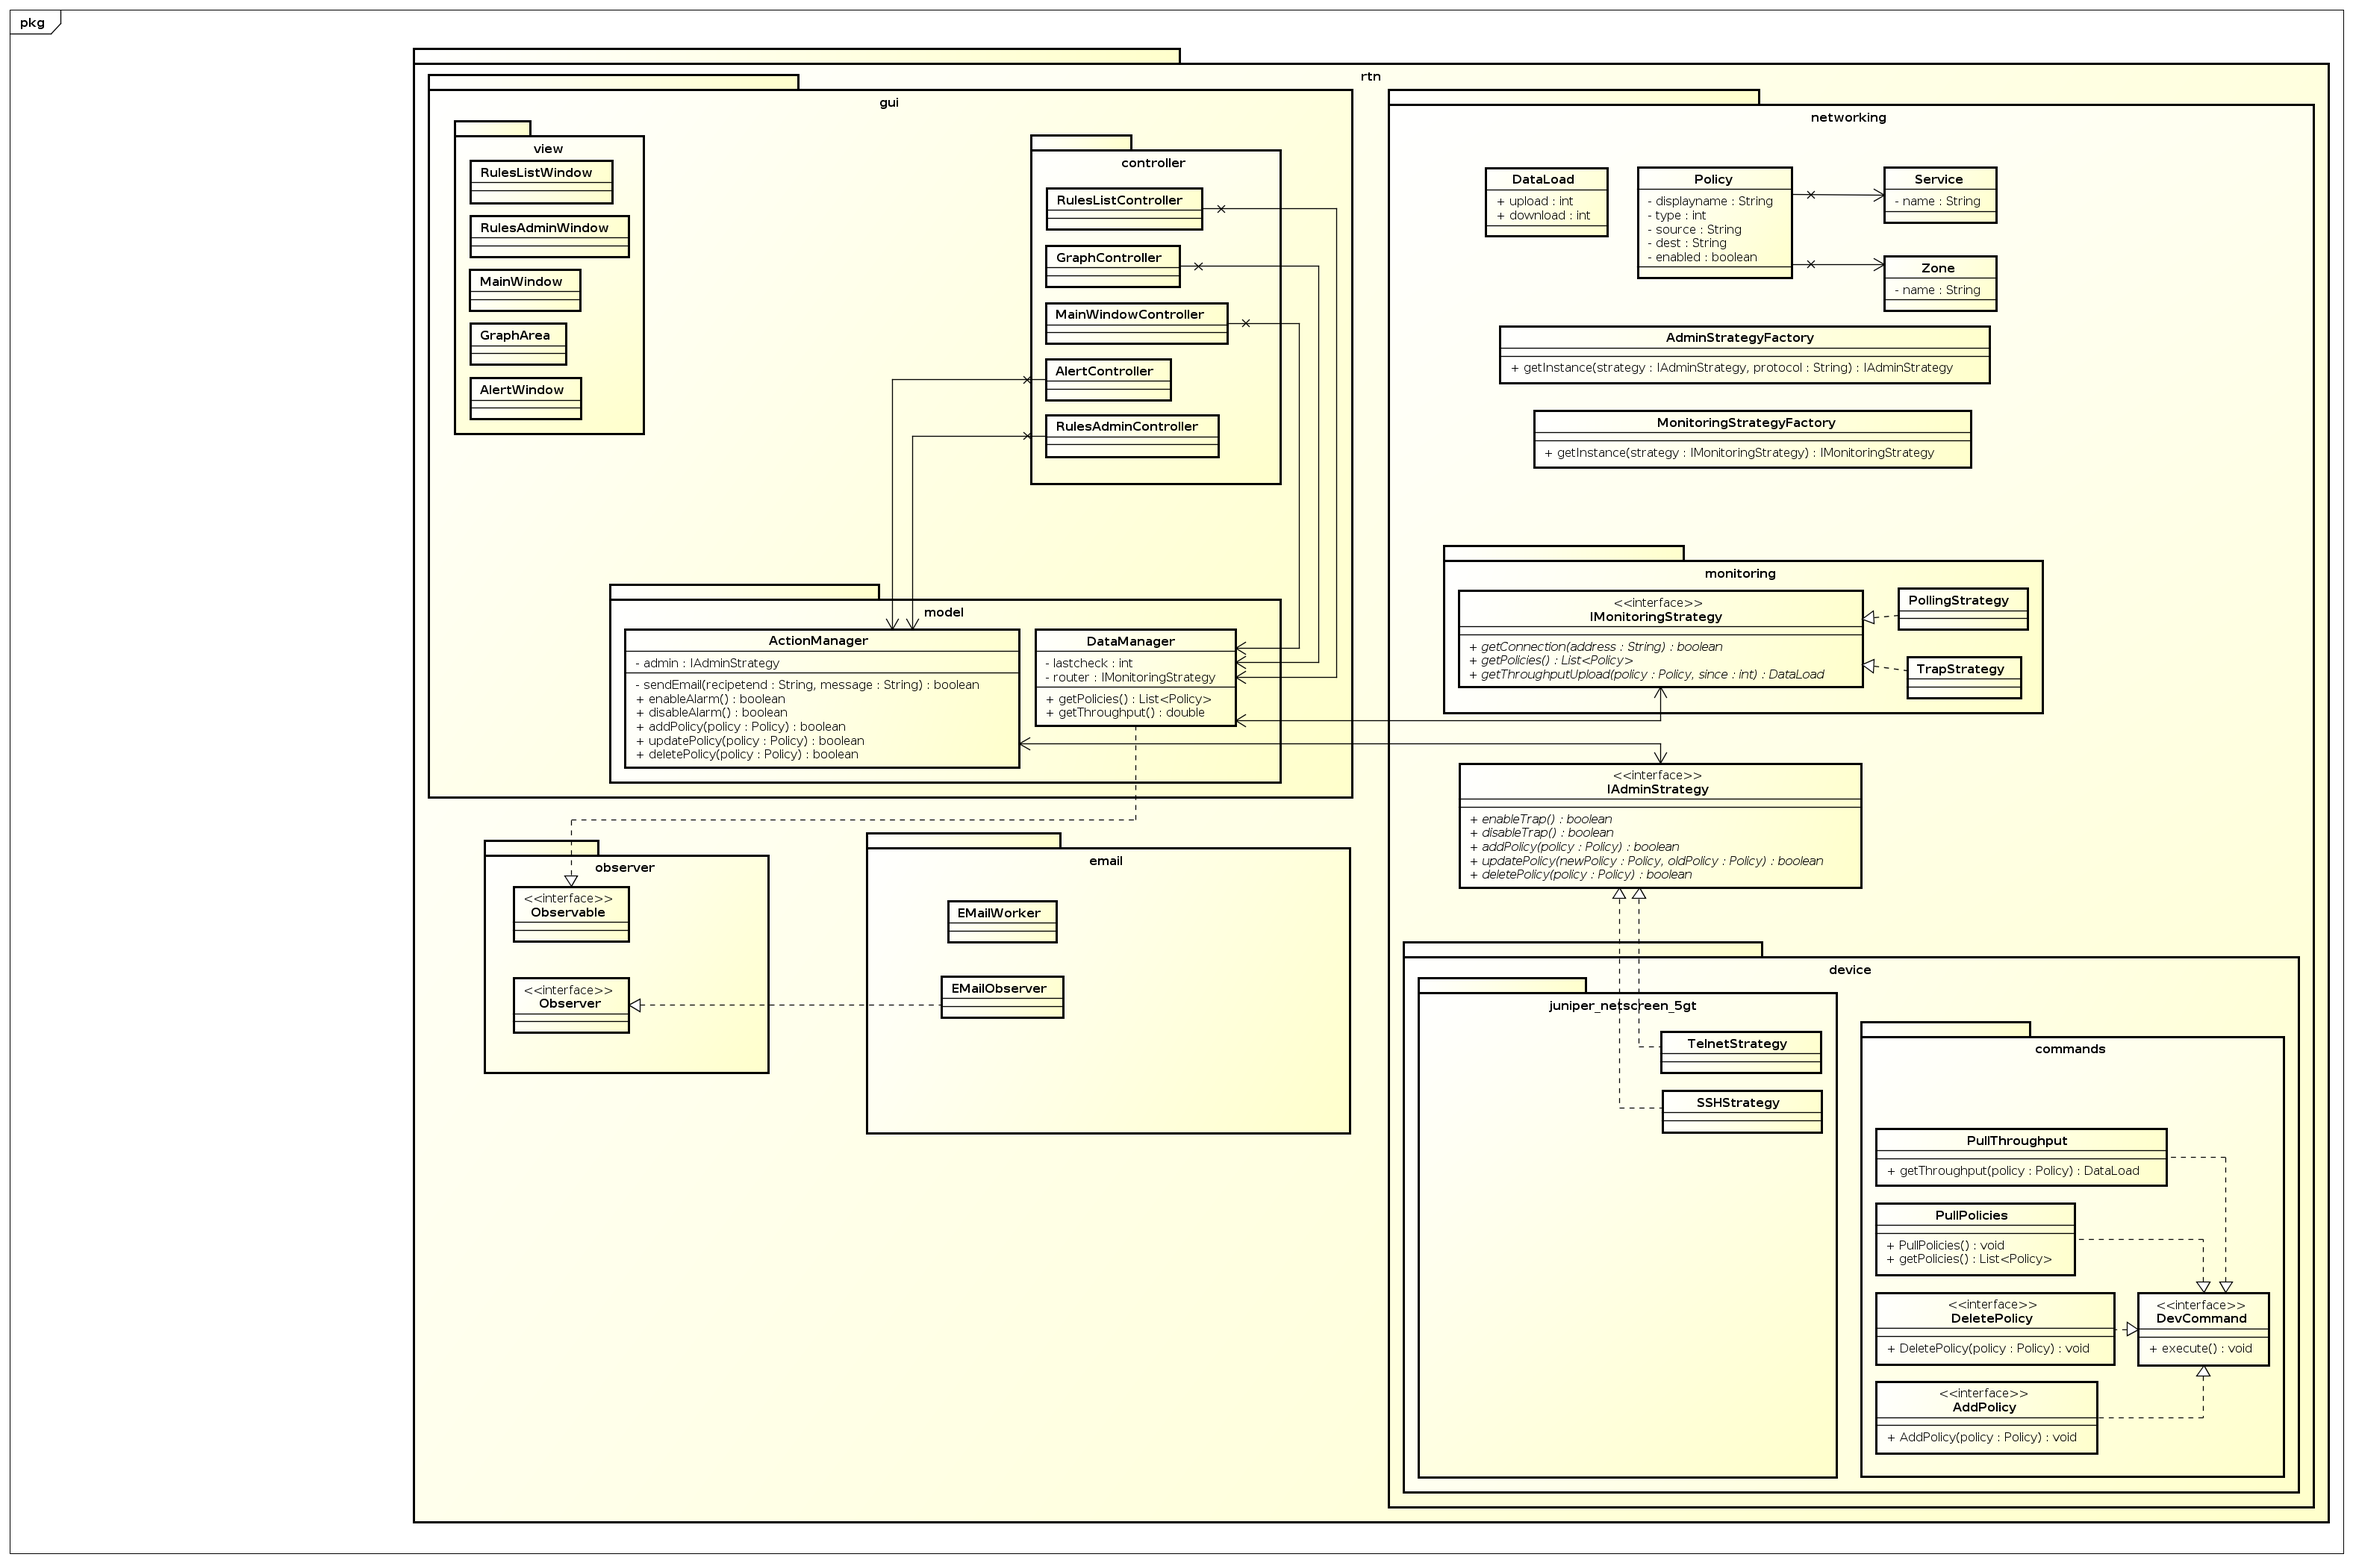
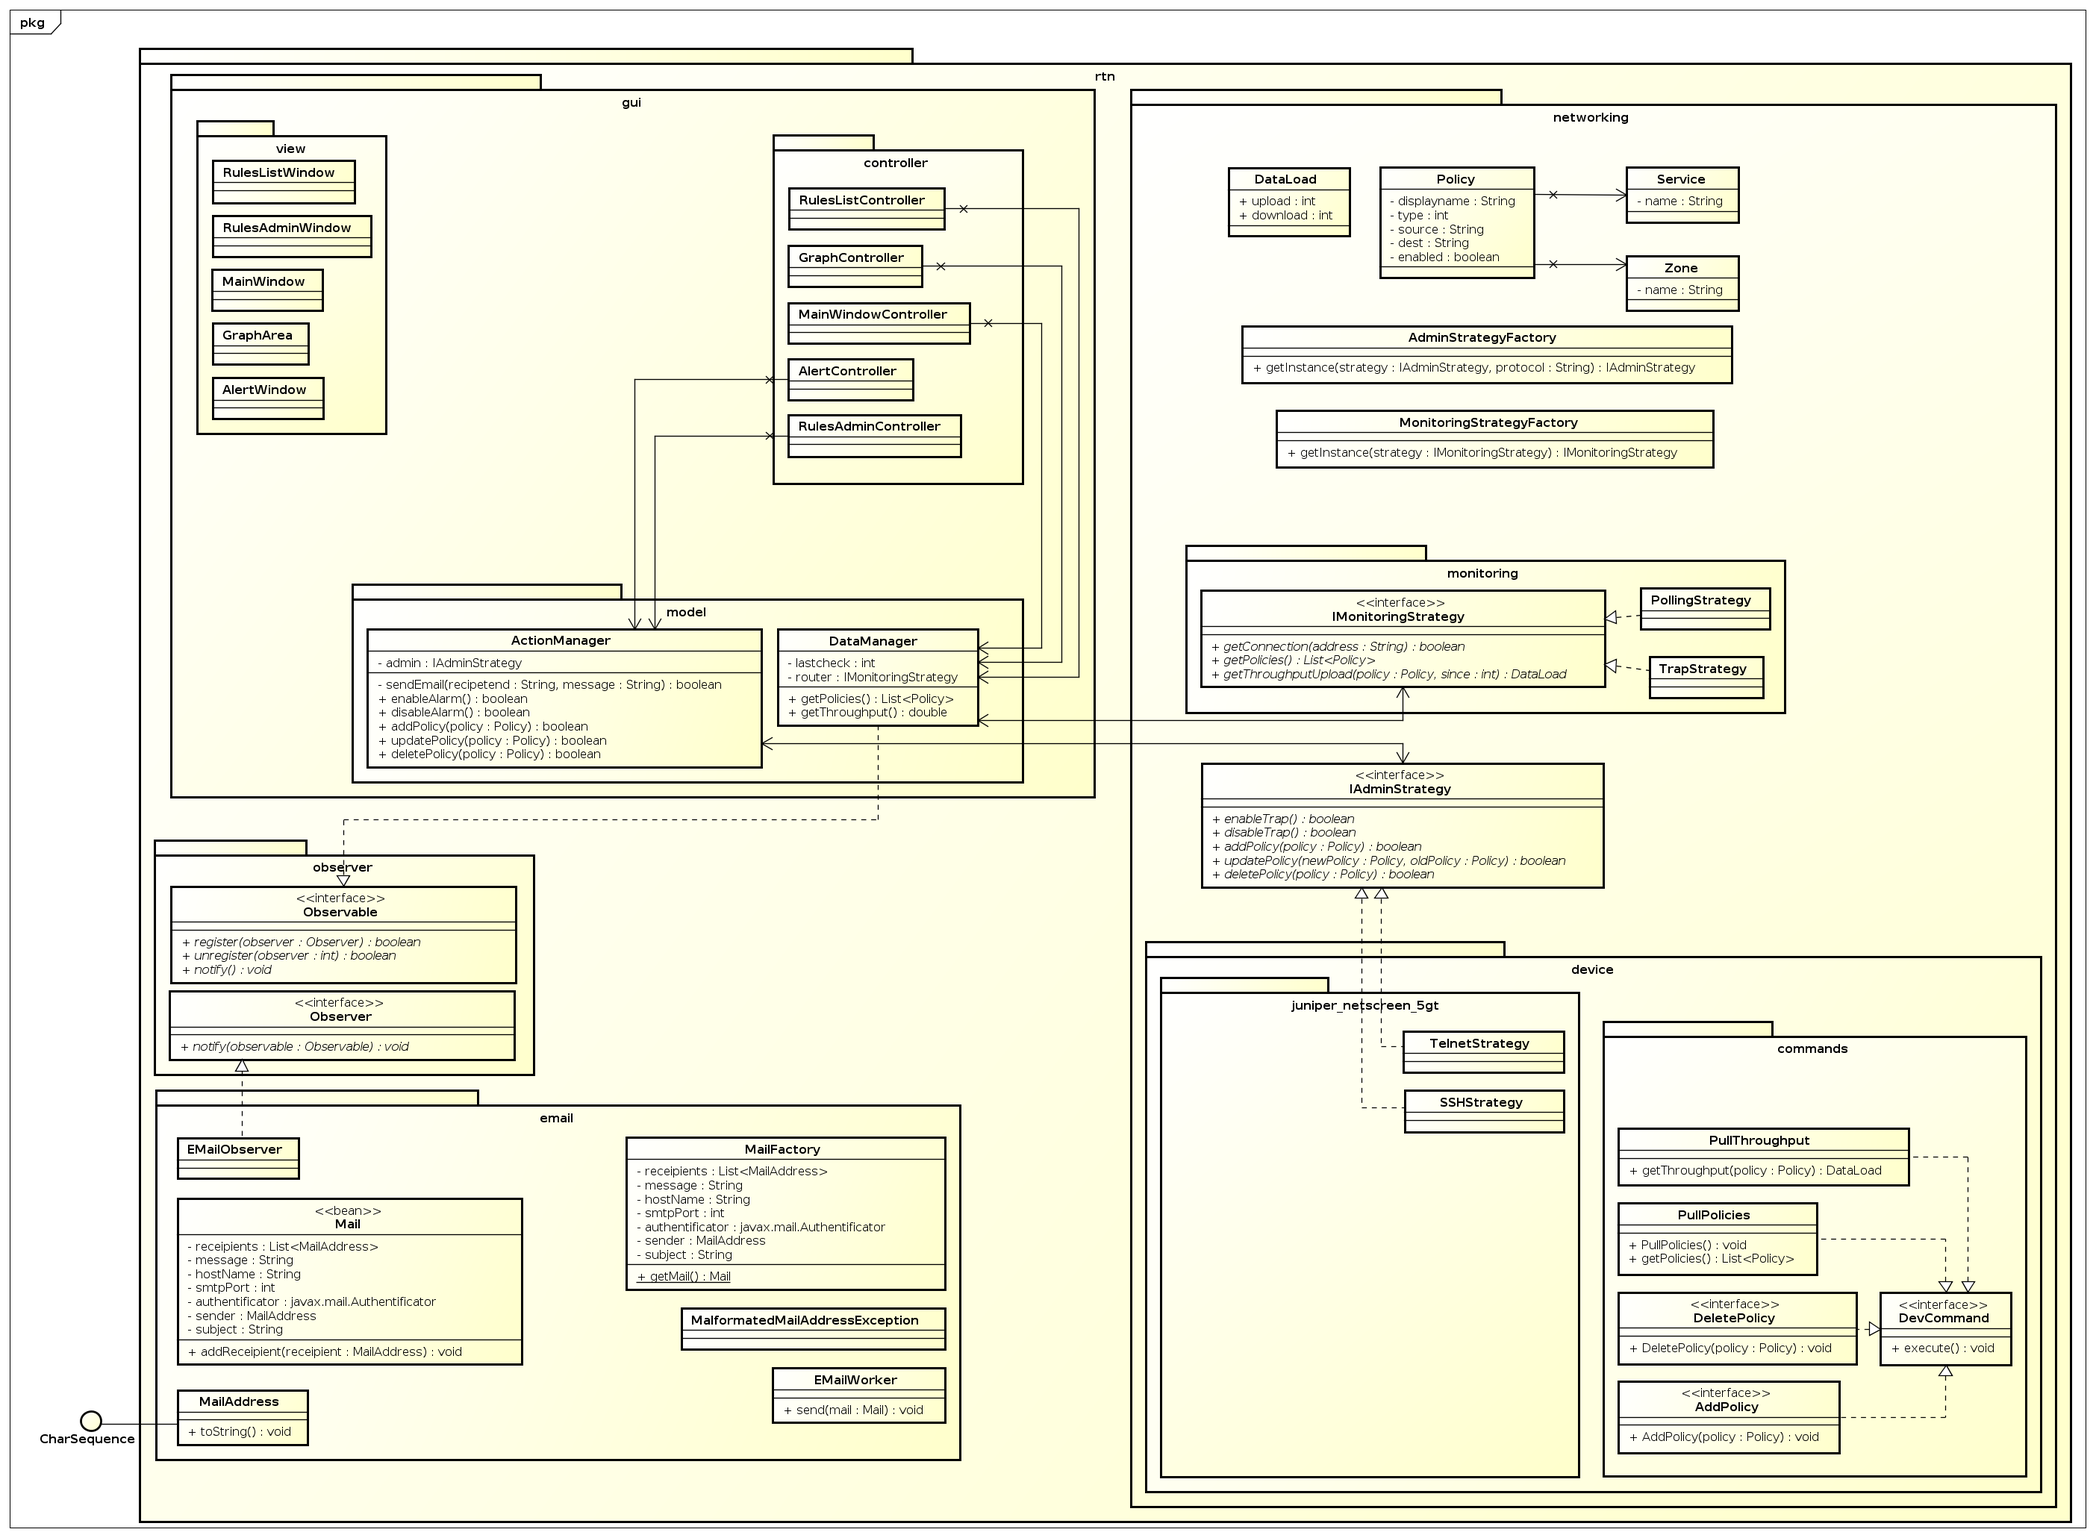
completed email UML

diff --git a/docs/timerecording_klepp.rst b/docs/timerecording_klepp.rst
@@ -18,5 +18,6 @@ test prototype with router        2014-09-25 08:50 09:40   00:50
 work distribution                 2014-09-26 13:40 14:30   00:50
 mocking SNMP ResponseEvent        2014-09-26 14:30 16:50   02:20
 UML                               2014-09-26 16:50 17:50   01:00
+UML                               2014-09-26 22:30
 **TOTAL**                                                **12:00**
 ================================= ========== ===== ===== =========
